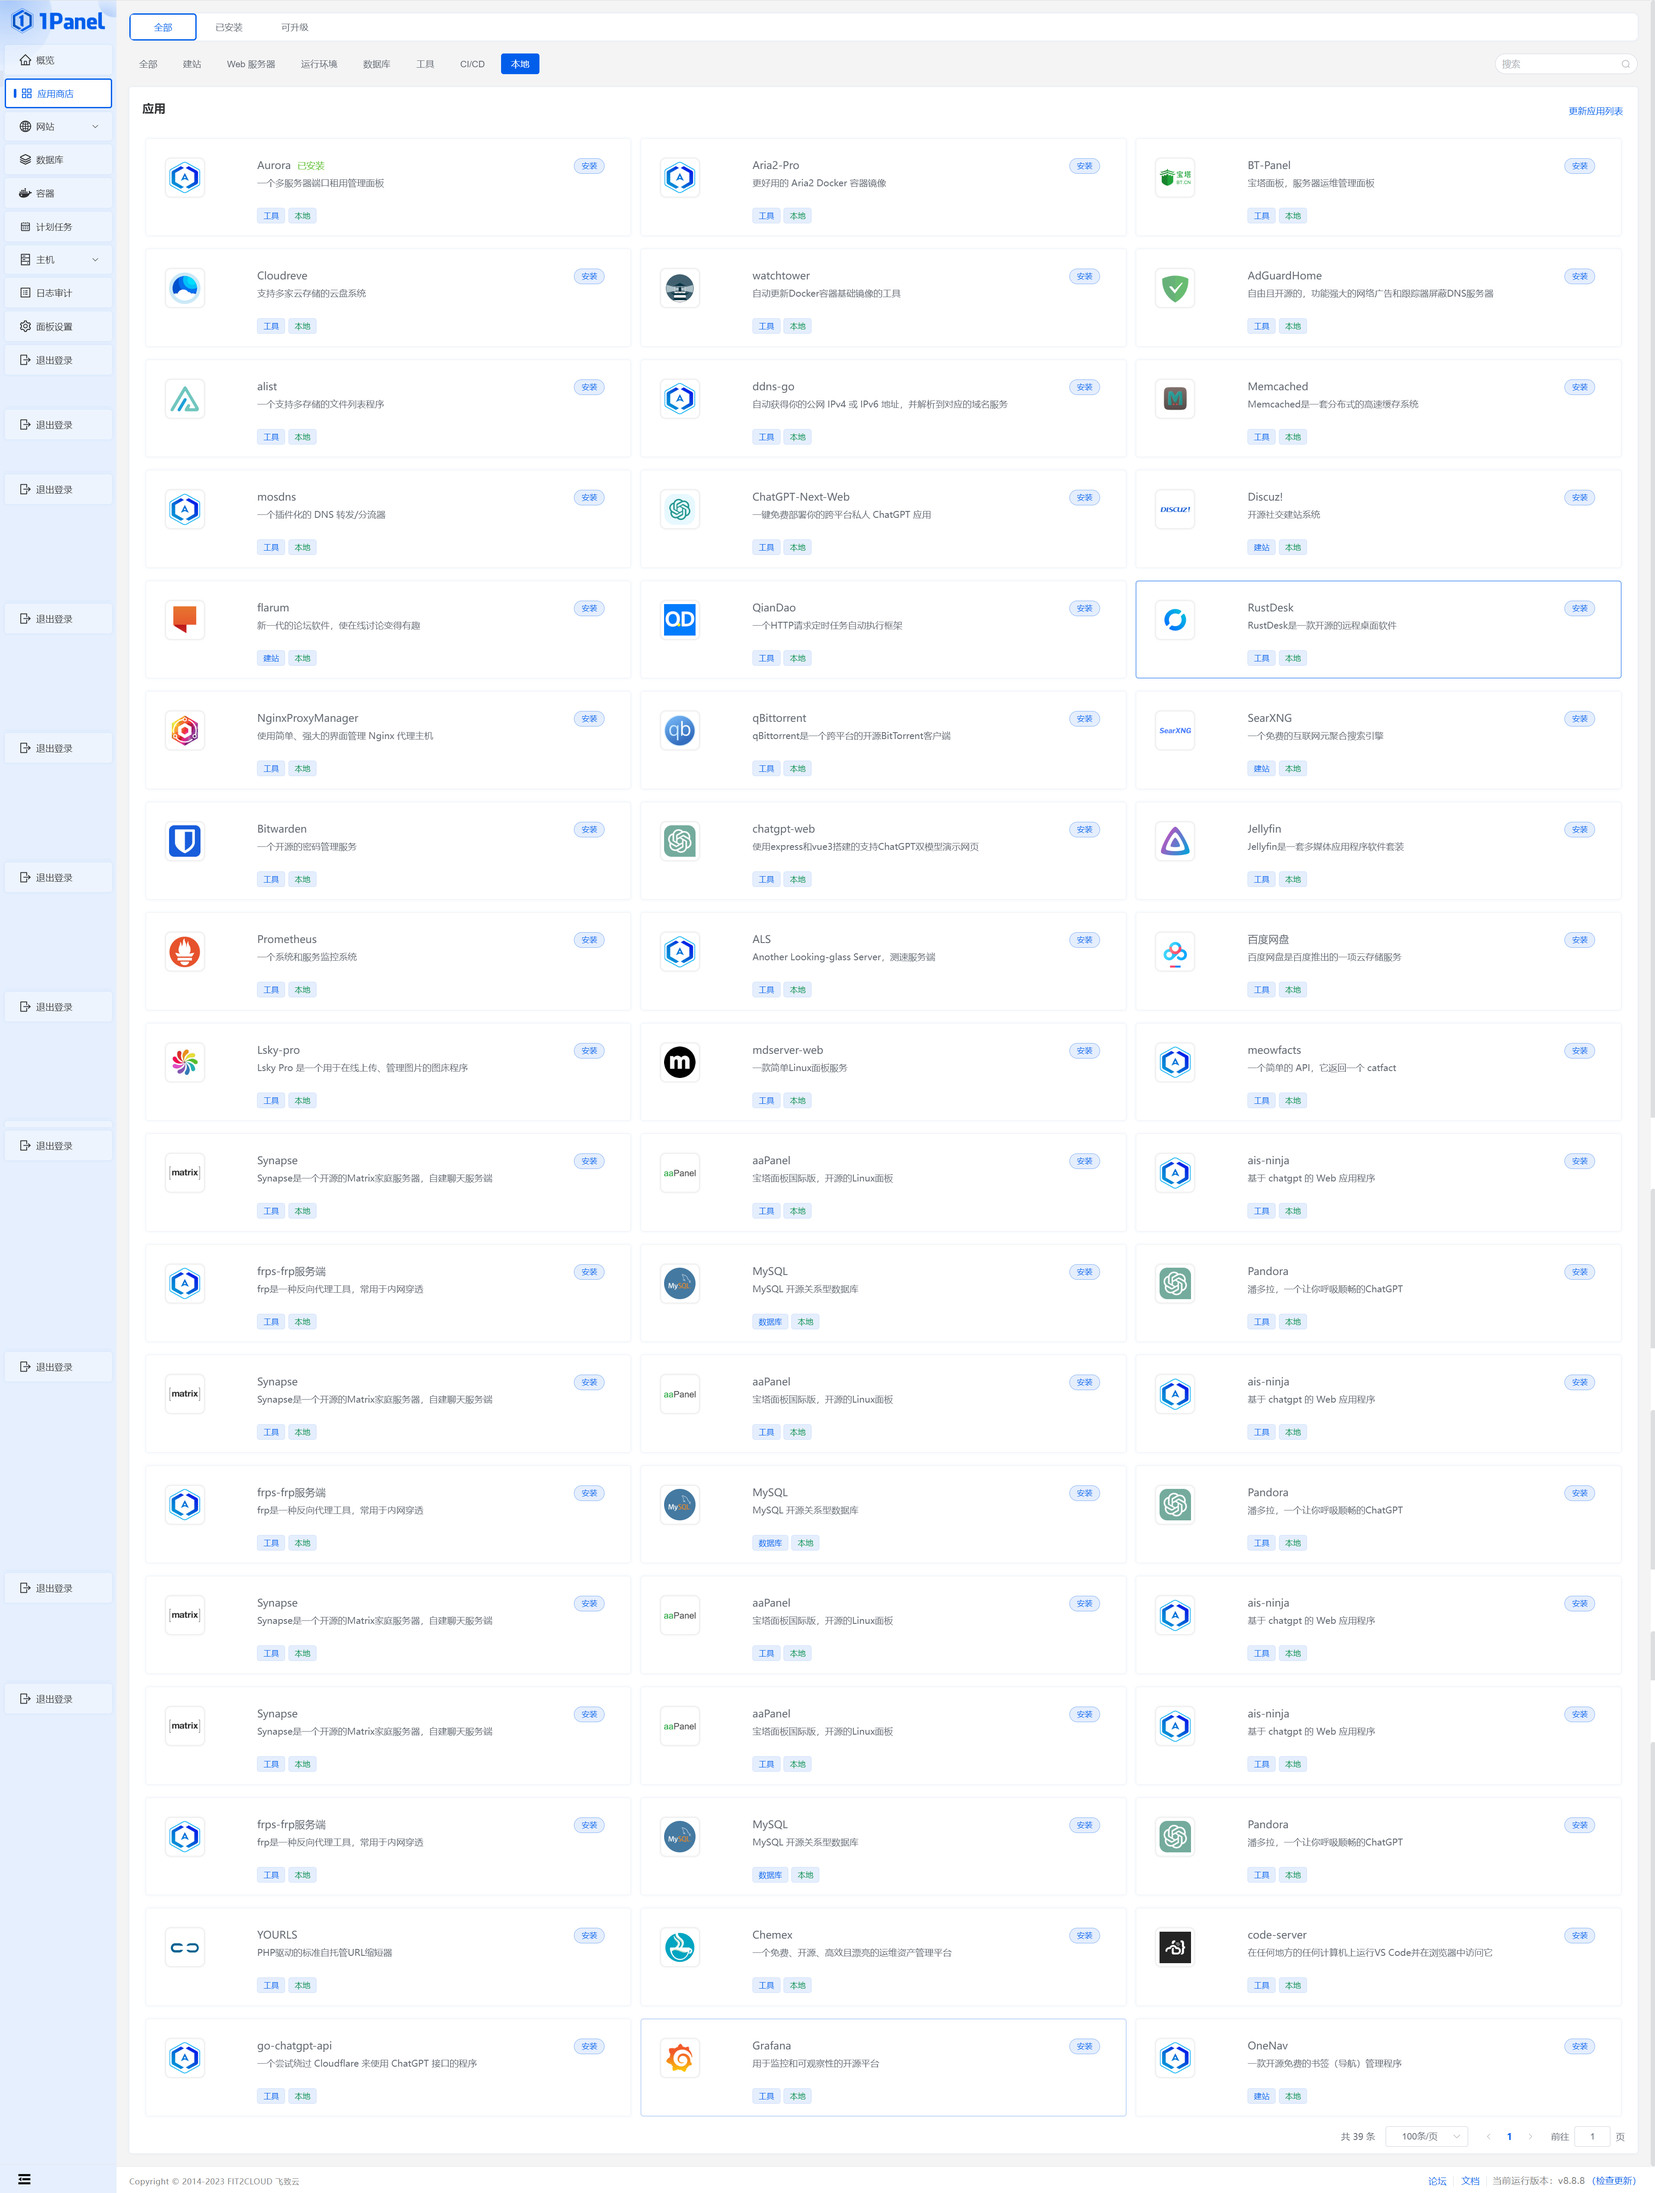
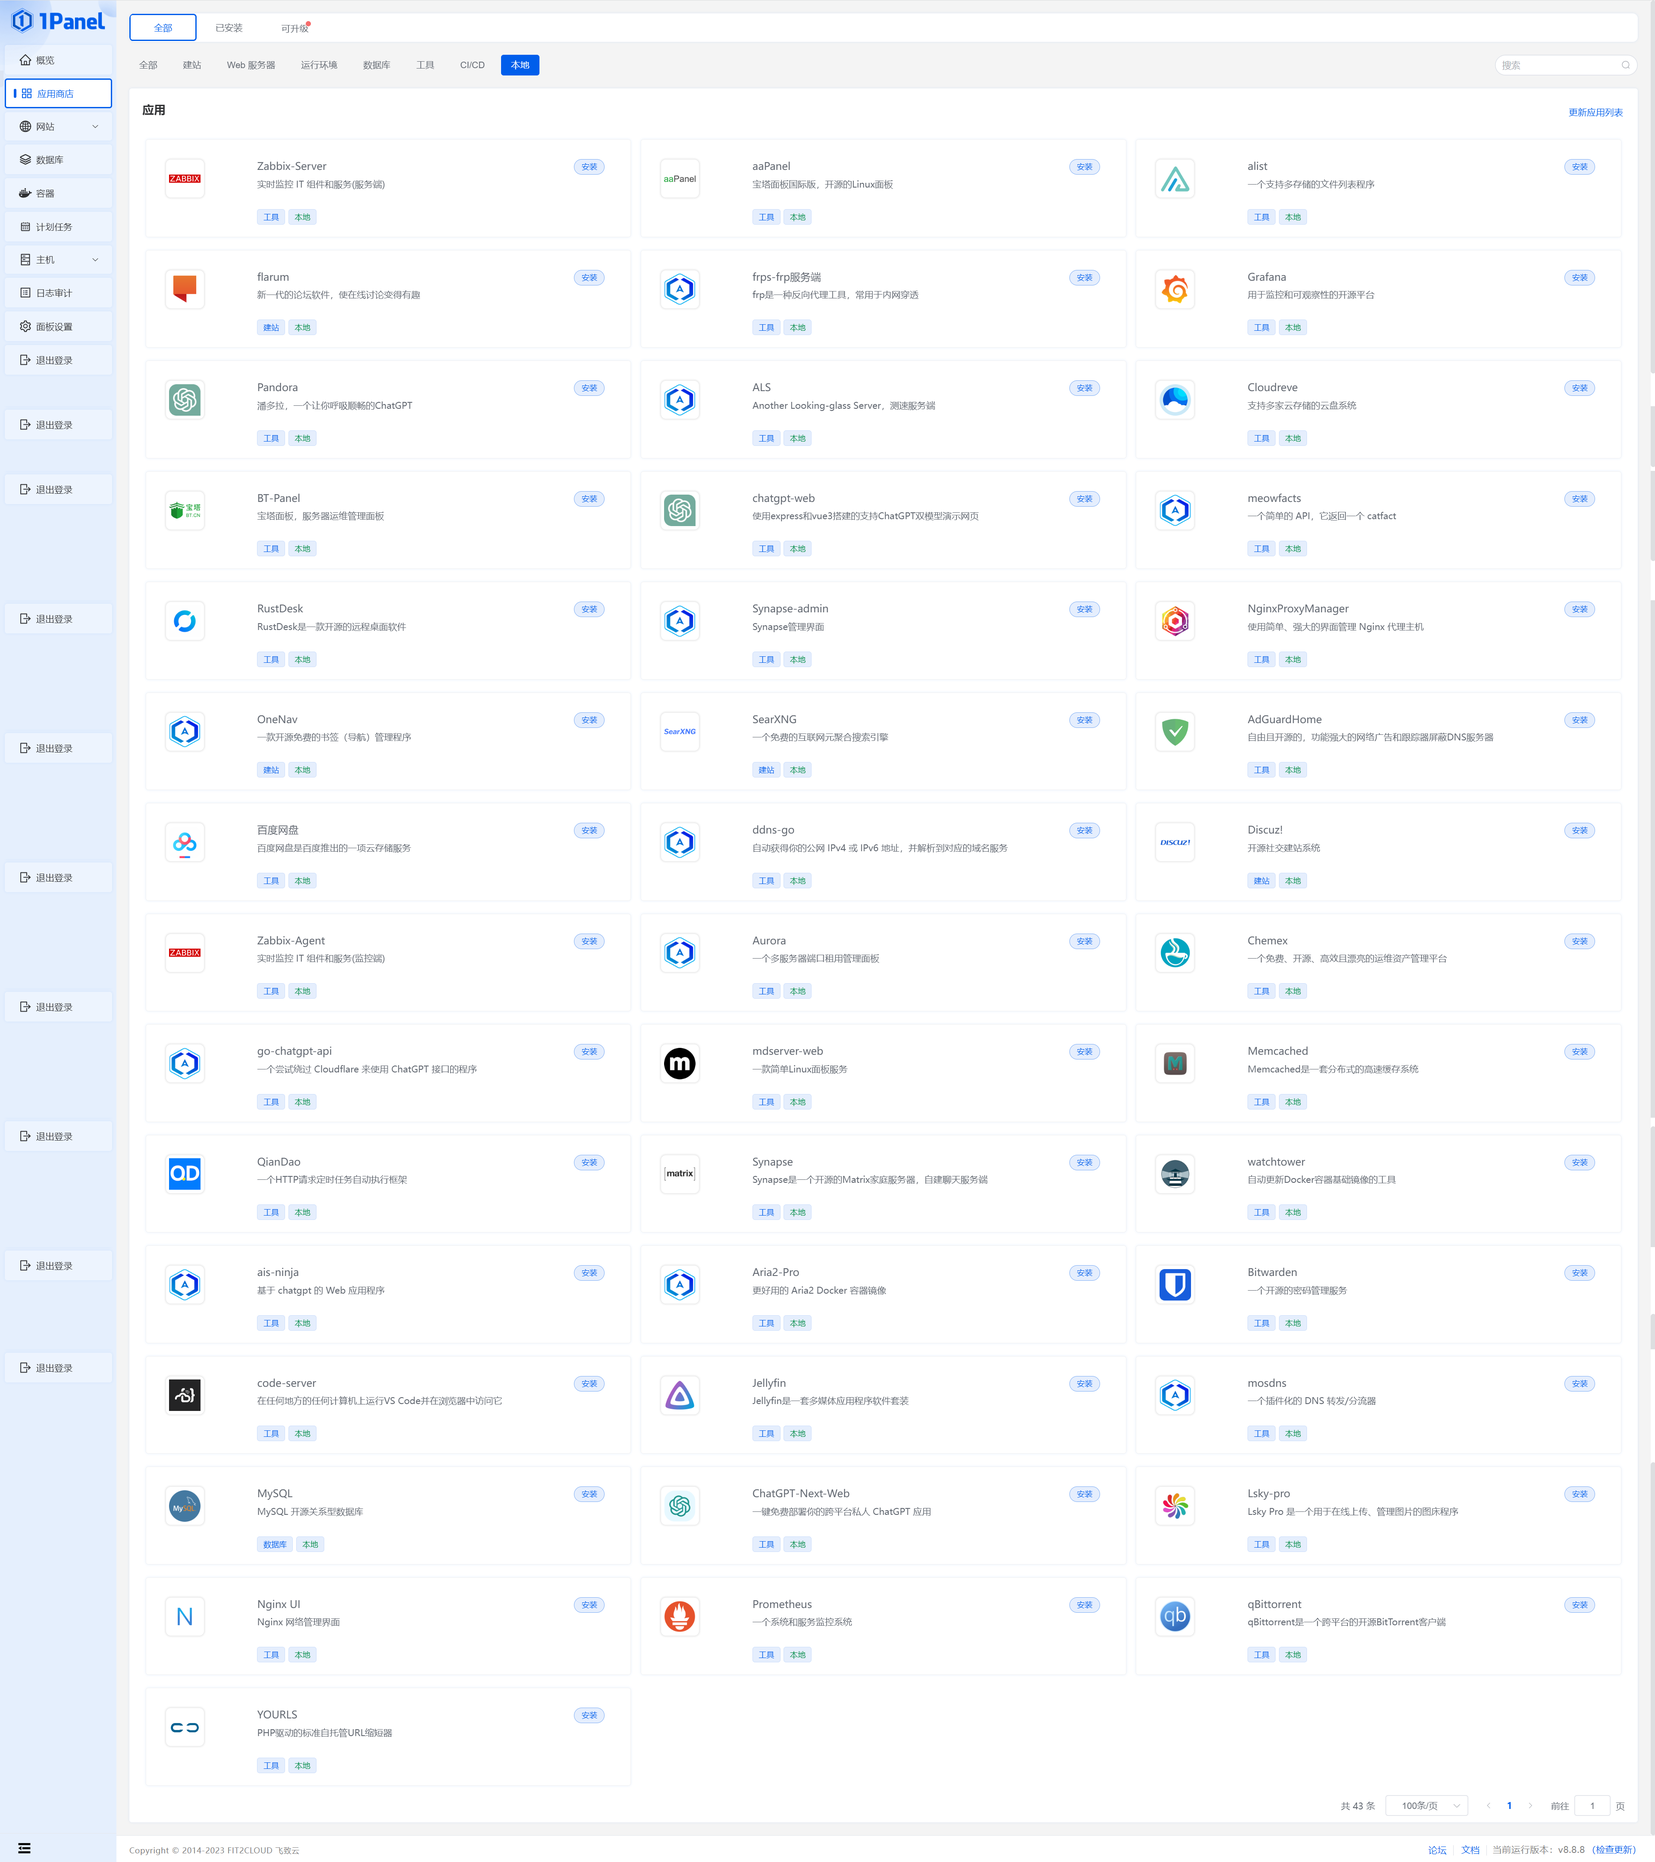
feat:添加zabbix-server到列表

diff --git a/apps/zabbix-server/README.md b/apps/zabbix-server/README.md
@@ -1,13 +1,22 @@
 # 使用说明
 
-默认账户与密码
+- 默认账户与密码(注意大小写)
 
 ```
-username:admin
+username:Admin
 password:zabbix
 ```
 
-**注意：Zabbix-MySQL版本的，Zabbix 6.X的需求环境MySQL8**
+## 注意事项
+
+**注意：这是Zabbix-MySQL版本的，Zabbix 6.X的需求环境MySQL8**
+
+商店自带的`MySQL 8`的数据库格式设置与`Zabbix`需求有所不同，`zabbix-server-mysql`容器会提示存在错误。
+
+但是实际能够运行。如有错误，期待反馈。
+
+- 带`&mysql`版本，会安装符合`Zabbix`格式要求的数据库版本
+- 不带`&mysql`的版本，默认调用面板安装的数据库
 
 
 # 原始相关
